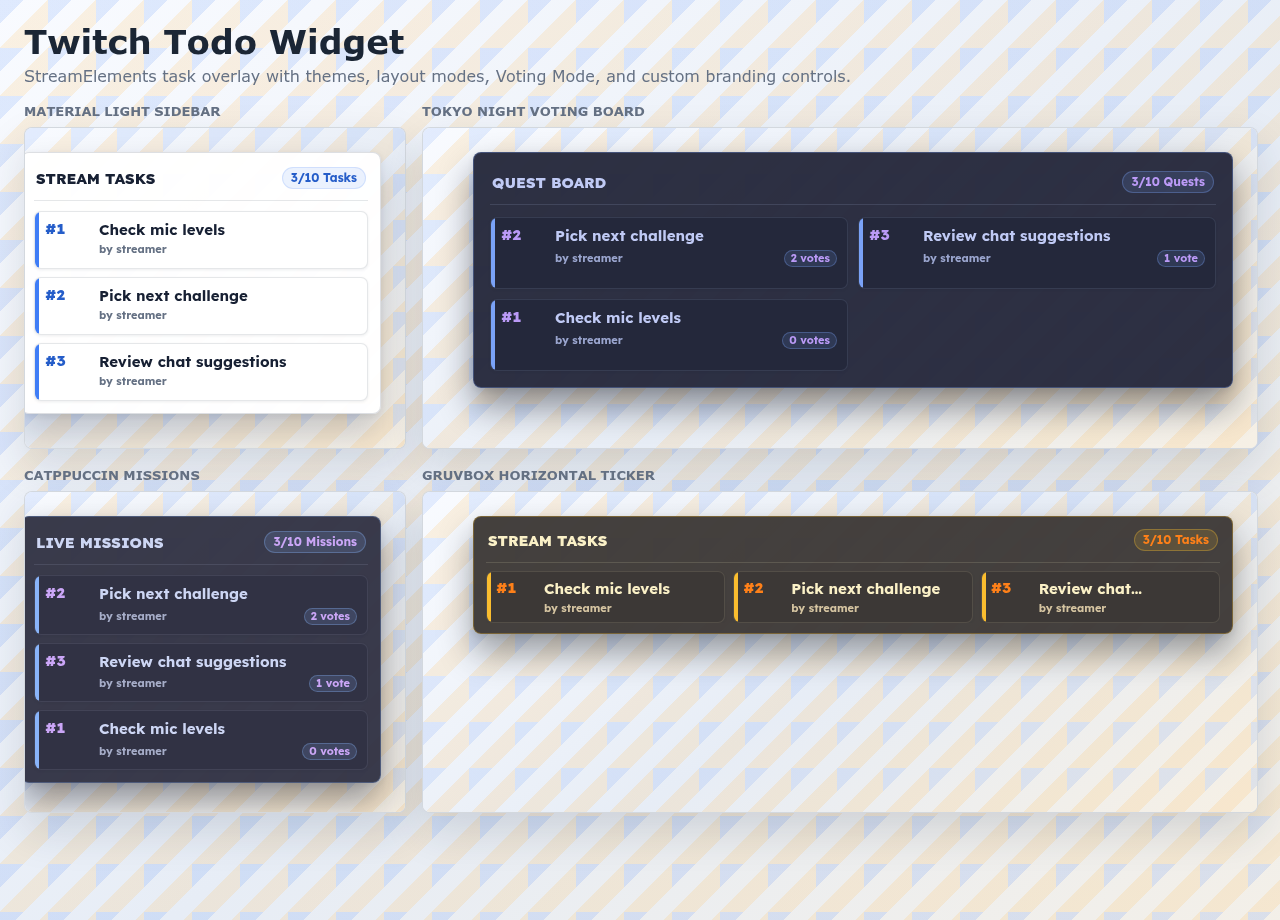
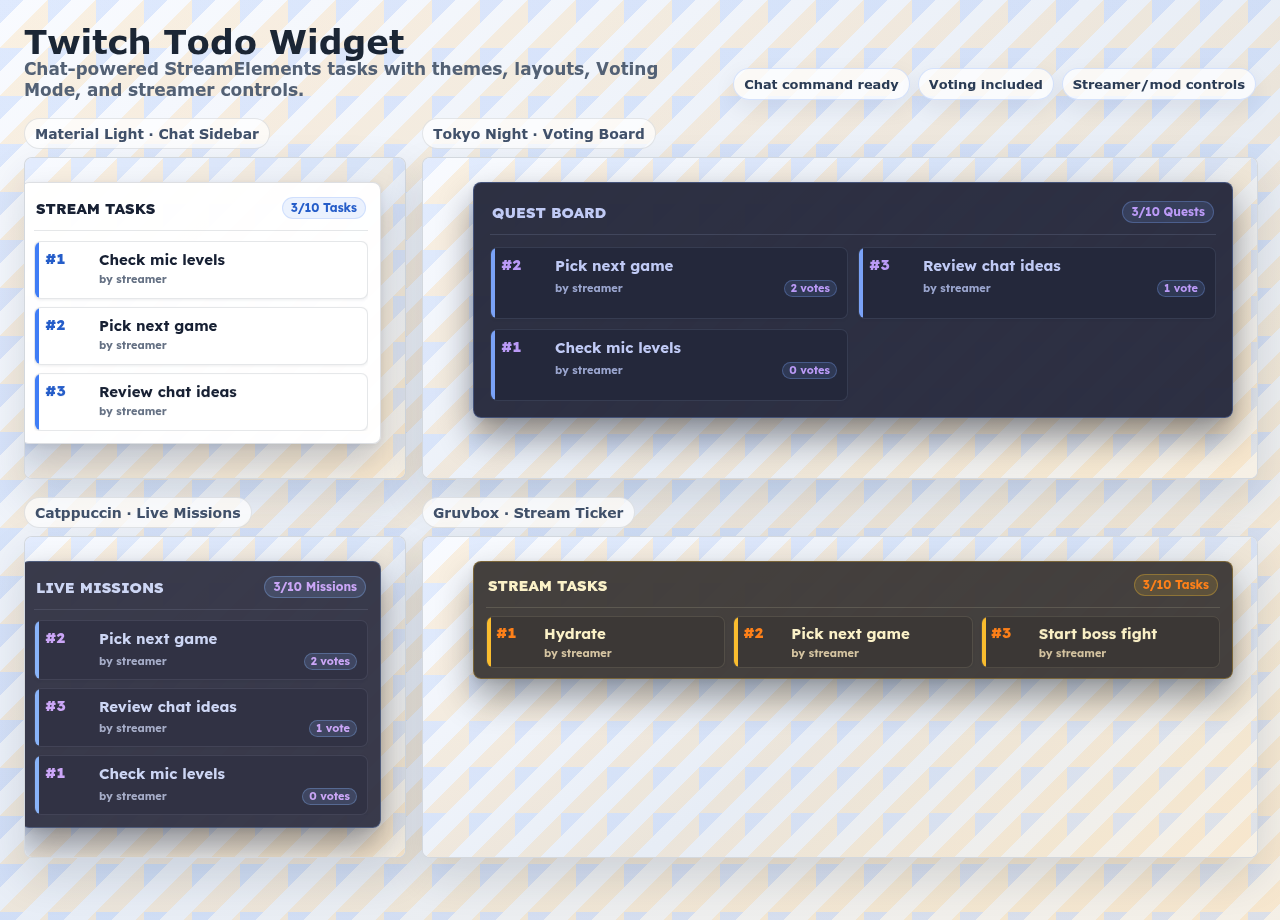
Polish marketplace preview image

diff --git a/docs/marketplace-gallery.html b/docs/marketplace-gallery.html
@@ -7,8 +7,17 @@
     <style>
       html,
       body {
-        height: 1100px;
+        width: 100%;
+        height: 920px;
         min-height: 100%;
+        background: #f4f7fb;
+      }
+
+      body::before {
+        content: "";
+        position: fixed;
+        inset: 0;
+        z-index: -1;
         background:
           linear-gradient(135deg, rgba(63, 125, 246, 0.14) 0 25%, transparent 25% 50%, rgba(255, 184, 77, 0.16) 50% 75%, transparent 75%),
           linear-gradient(145deg, #f9fbff 0%, #e7edf6 52%, #f6f0e5 100%);
@@ -20,6 +29,7 @@
       body {
         min-height: 100vh;
         margin: 0;
+        background: transparent;
         color: #1b2635;
         font-family: Lexend, Verdana, sans-serif;
         overflow: hidden;
@@ -28,12 +38,22 @@
       .gallery {
         display: grid;
         gap: 18px;
+        box-sizing: border-box;
+        min-height: 920px;
         padding: 24px;
+        background:
+          linear-gradient(135deg, rgba(63, 125, 246, 0.14) 0 25%, transparent 25% 50%, rgba(255, 184, 77, 0.16) 50% 75%, transparent 75%),
+          linear-gradient(145deg, #f9fbff 0%, #e7edf6 52%, #f6f0e5 100%);
+        background-size:
+          48px 48px,
+          auto;
       }
 
       .gallery__header {
         display: grid;
-        gap: 8px;
+        grid-template-columns: minmax(0, 1fr) auto;
+        align-items: end;
+        gap: 16px;
       }
 
       .gallery__title {
@@ -45,9 +65,27 @@
 
       .gallery__subtitle {
         margin: 0;
-        color: #657184;
-        font-size: 16px;
-        font-weight: 500;
+        color: #536175;
+        font-size: 17px;
+        font-weight: 600;
+      }
+
+      .gallery__badges {
+        display: flex;
+        flex-wrap: wrap;
+        justify-content: end;
+        gap: 8px;
+      }
+
+      .gallery__badge {
+        border: 1px solid rgba(63, 125, 246, 0.2);
+        border-radius: 999px;
+        background: rgba(255, 255, 255, 0.72);
+        color: #2b3c55;
+        font-size: 13px;
+        font-weight: 800;
+        padding: 7px 10px;
+        box-shadow: 0 8px 22px rgba(31, 43, 62, 0.08);
       }
 
       .gallery__grid {
@@ -62,11 +100,16 @@
       }
 
       .gallery__label {
-        color: #657184;
-        font-size: 13px;
+        display: inline-flex;
+        width: max-content;
+        border: 1px solid rgba(44, 56, 74, 0.12);
+        border-radius: 999px;
+        background: rgba(255, 255, 255, 0.72);
+        color: #41516a;
+        font-size: 14px;
         font-weight: 700;
         letter-spacing: 0;
-        text-transform: uppercase;
+        padding: 6px 10px;
       }
 
       iframe {
@@ -81,32 +124,44 @@
       .gallery__card--wide iframe {
         height: 320px;
       }
+
+      .gallery__spacer {
+        height: 90px;
+      }
     </style>
   </head>
   <body>
     <main class="gallery">
       <header class="gallery__header">
-        <h1 class="gallery__title">Twitch Todo Widget</h1>
-        <p class="gallery__subtitle">StreamElements task overlay with themes, layout modes, Voting Mode, and custom branding controls.</p>
+        <div>
+          <h1 class="gallery__title">Twitch Todo Widget</h1>
+          <p class="gallery__subtitle">Chat-powered StreamElements tasks with themes, layouts, Voting Mode, and streamer controls.</p>
+        </div>
+        <div class="gallery__badges" aria-label="Widget highlights">
+          <span class="gallery__badge">Chat command ready</span>
+          <span class="gallery__badge">Voting included</span>
+          <span class="gallery__badge">Streamer/mod controls</span>
+        </div>
       </header>
       <section class="gallery__grid" aria-label="Widget visual examples">
         <article class="gallery__card">
-          <div class="gallery__label">Material light sidebar</div>
-          <iframe title="Material light widget" src="widget-shot.html?theme=material-light&layout=compact&mode=tasks"></iframe>
+          <div class="gallery__label">Material Light · Chat Sidebar</div>
+          <iframe title="Material light widget" src="widget-shot.html?theme=material-light&layout=compact&mode=tasks&sample=stream"></iframe>
         </article>
         <article class="gallery__card gallery__card--wide">
-          <div class="gallery__label">Tokyo Night voting board</div>
-          <iframe title="Tokyo Night board widget" src="widget-shot.html?theme=tokyo-night&layout=board&mode=quests&voting=true"></iframe>
+          <div class="gallery__label">Tokyo Night · Voting Board</div>
+          <iframe title="Tokyo Night board widget" src="widget-shot.html?theme=tokyo-night&layout=board&mode=quests&voting=true&sample=stream"></iframe>
         </article>
         <article class="gallery__card">
-          <div class="gallery__label">Catppuccin missions</div>
-          <iframe title="Catppuccin compact widget" src="widget-shot.html?theme=catppuccin&layout=compact&mode=missions&voting=true"></iframe>
+          <div class="gallery__label">Catppuccin · Live Missions</div>
+          <iframe title="Catppuccin compact widget" src="widget-shot.html?theme=catppuccin&layout=compact&mode=missions&voting=true&sample=stream"></iframe>
         </article>
         <article class="gallery__card gallery__card--wide">
-          <div class="gallery__label">Gruvbox horizontal ticker</div>
-          <iframe title="Gruvbox ticker widget" src="widget-shot.html?theme=gruvbox&layout=ticker&mode=tasks"></iframe>
+          <div class="gallery__label">Gruvbox · Stream Ticker</div>
+          <iframe title="Gruvbox ticker widget" src="widget-shot.html?theme=gruvbox&layout=ticker&mode=tasks&sample=ticker"></iframe>
         </article>
       </section>
+      <div class="gallery__spacer" aria-hidden="true"></div>
     </main>
   </body>
 </html>

diff --git a/docs/widget-shot.html b/docs/widget-shot.html
@@ -47,6 +47,7 @@
       const layoutMode = params.get("layout") || "compact";
       const mode = params.get("mode") || "tasks";
       const voting = params.get("voting") === "true";
+      const sample = params.get("sample") || "default";
       const wording = {
         tasks: { titleText: "STREAM TASKS", singular: "Task", plural: "Tasks" },
         quests: { titleText: "QUEST BOARD", singular: "Quest", plural: "Quests" },
@@ -90,9 +91,14 @@
           voteCooldownSeconds: 0,
         });
 
-        await window.TwitchTodoWidget.enqueueCommand({ ...streamer, message: "!task Check mic levels" });
-        await window.TwitchTodoWidget.enqueueCommand({ ...streamer, message: "!task Pick next challenge" });
-        await window.TwitchTodoWidget.enqueueCommand({ ...streamer, message: "!task Review chat suggestions" });
+        const tasks =
+          sample === "ticker"
+            ? ["Hydrate", "Pick next game", "Start boss fight"]
+            : ["Check mic levels", "Pick next game", "Review chat ideas"];
+
+        for (const task of tasks) {
+          await window.TwitchTodoWidget.enqueueCommand({ ...streamer, message: `!task ${task}` });
+        }
 
         if (voting) {
           await window.TwitchTodoWidget.enqueueCommand({ ...viewer("viewer-one"), message: "!vote 2" });